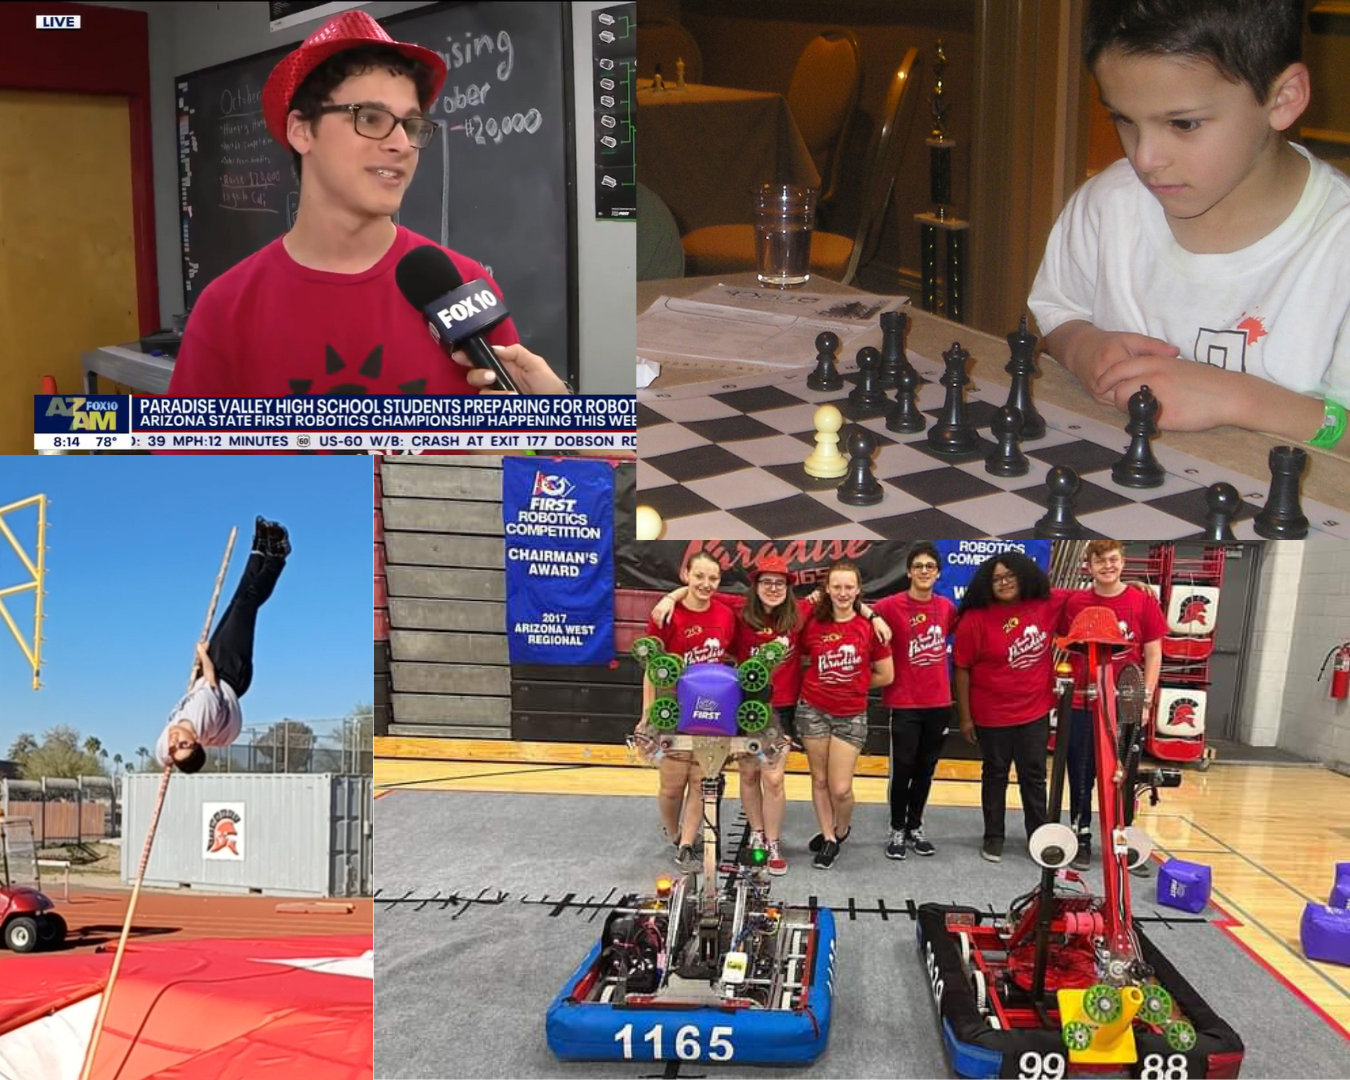
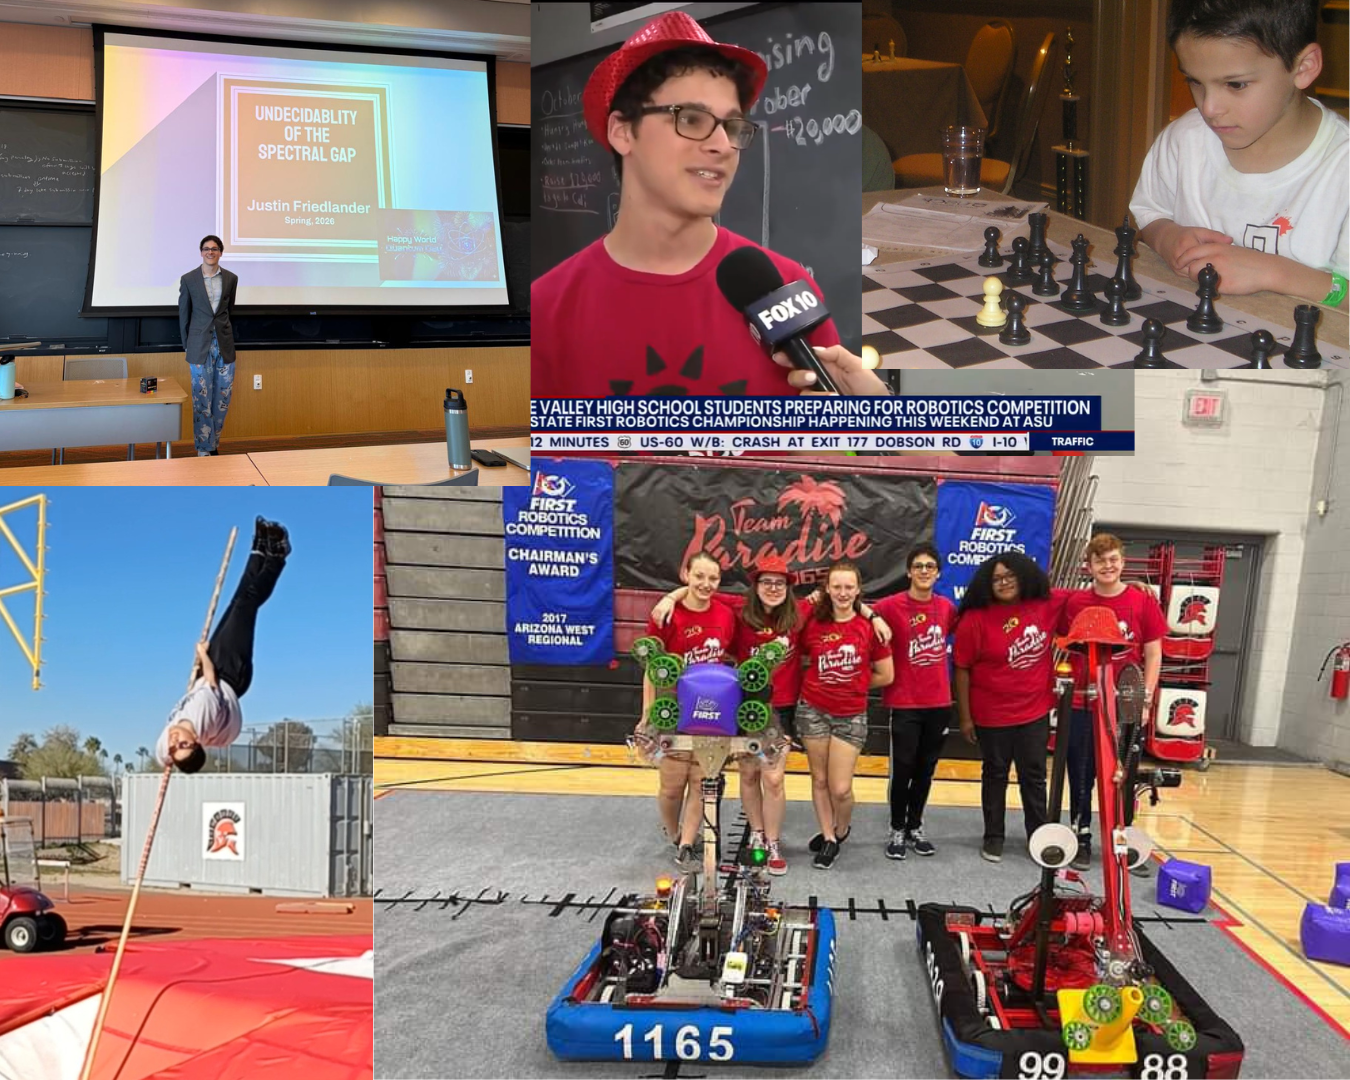
collage pic

diff --git a/Pages/private.html b/Pages/private.html
@@ -1,0 +1,69 @@
+<!DOCTYPE html>
+<html lang="en">
+    <head>
+        <link
+            rel="icon"
+            type="image/x-icon"
+            href="/Resources/Logo.png"
+        />
+        <link rel="stylesheet" href="/Styles/style.css" />
+        <link rel="stylesheet" href="/Styles/research.css" />
+        <script src="https://cdn.tailwindcss.com"></script>
+        <meta name="viewport" content="width=device-width, initial-scale=1.0" />
+
+        <script>
+            window.addEventListener("DOMContentLoaded", (event) => {
+                fetch("/Pages/top-section.html")
+                    .then((response) => response.text())
+                    .then((data) => {
+                        document.getElementById("top-section").innerHTML = data;
+                    });
+                fetch("/Pages/footer.html")
+                    .then((response) => response.text())
+                    .then((data) => {
+                        document.getElementById("footer").innerHTML = data;
+                    });
+            });
+        </script>
+
+        <script src="https://polyfill.io/v3/polyfill.min.js?features=es6"></script>
+        <script id="MathJax-script" async
+                src="https://cdn.jsdelivr.net/npm/mathjax@3/es5/tex-mml-chtml.js">
+        </script>
+    </head>
+
+    <body>
+        <!--Navigation Bar-->
+        <div id="top-section"></div>
+
+
+        <main>
+            <section id="main-section">
+                <section id="home-section">
+                    <!-- Notes -->
+                    <header>
+                        <h2 class="header2">Notes</h2>
+                    </header>
+                    <!-- Title of Notes -->
+                    <section class="section-white">
+                        <section class="text-image-chunk" id="talk2">
+                            <section class="text-chunk">
+                                <h3 class="header3">
+                                    Title of Notes
+                                </h3>
+                                <br>
+                                <div>
+                                    Enter Comments Here...
+                                </div>
+                            </section>
+                        </section>
+                    </section>
+
+                </section>
+
+                <!-- Footer -->
+                <div id="footer"></div>
+            </section>
+        </main>
+    </body>
+</html>
